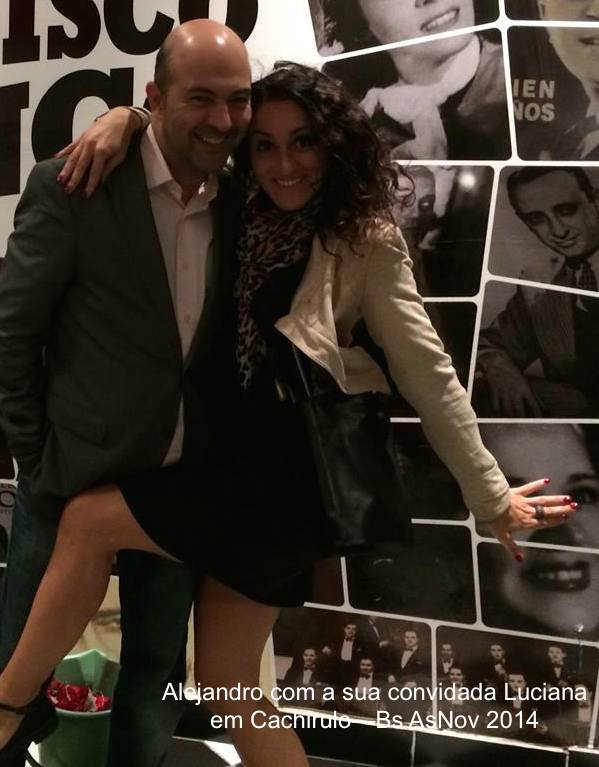
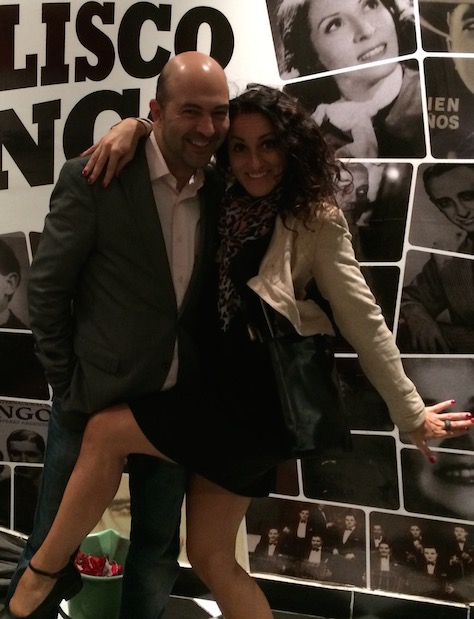
Nova actualizacao

diff --git a/public/main.htm b/public/main.htm
@@ -971,11 +971,10 @@ font-family:Cambria;
       </strong><span class="style111"><span class="AULA_DE_TANGO">em Lisboa </span><br>
   </span><span class="AULA_DE_TANGO">Domingos / Sunday 20h00 &mdash; 21h30</span><br>
   <strong><span class="ALEJANDROLAGUNA">AULAS na Milonga d' A Barraca&mdash;Tango de Buenos Aires<br>
-  </span><span class="font_12">Milonga d' A Barraca -Teatro A Barraca - Largo de Santos, 2. Lisboa <br>
+  </span><span class="font_12">Em abril Alejandro convida Luciana<br>
+  Milonga d' A Barraca -Teatro A Barraca - Largo de Santos, 2. Lisboa <br>
   <a href="http://maps.google.pt/maps?q=teatro+cinearte&hl=pt-PT&ll=38.708135,-9.15498&spn=0.008355,0.017359&fb=1&gl=pt&hq=teatro+cinearte&cid=0,0,1870763517737540757&sqi=2&t=m&z=16" target="_new">Como chegar? MAPA &ndash; MAP</a></span><span class="ALEJANDROLAGUNA">  </span></strong>  <br>
-  <span class="MsoNormal" style="text-align:center; text-justify:inter-ideograph;"><span class="MsoNormal" style="text-align:center; text-justify:inter-ideograph;"><strong><span class="AULA_DE_TANGO"><img src="Alejandro.jpg" width="567" height="375"></span></strong></span></span><br>
-  <strong><span class="font_12"><br>
-  </span><span class="ALEJANDROLAGUNA">Em Abril Alejandro convida Luciana</span></strong>      </p>
+  <span class="MsoNormal" style="text-align:center; text-justify:inter-ideograph;"><span class="MsoNormal" style="text-align:center; text-justify:inter-ideograph;"><strong><span class="AULA_DE_TANGO"><img src="Alejandro.jpg" width="567" height="375"></span></strong></span></span></p>
       <p class="MsoNormal" style="text-justify:inter-ideograph;">Alejandro &eacute; natural de Buenos Aires. Nas aulas de tango da Milonga d' A Barraca podes aprender <span class="MsoNormal" style="text-align:justify; text-justify:inter-ideograph;">a dan&ccedil;ar tango de pista&mdash;estilo milonguero </span>a trav&eacute;s de uma did&aacute;tica do movimento <span class="MsoNormal" style="text-align:justify; text-justify:inter-ideograph;">fundamentada,   eficaz </span><span class="MsoNormal" style="text-align:justify; text-justify:inter-ideograph;"><span class="MsoNormal" style="text-align:justify;text-justify:inter-ideograph;">e baseada nas  raizes do seu entorno cultural, a Milonga</span>.</span></p>
 <p class="MsoNormal" style="text-align:center; text-justify:inter-ideograph;">&nbsp;</p>
       <p class="MsoNormal" style="text-align:justify; text-justify:inter-ideograph;"> Ensinamos para que possas dan&ccedil;ar  de uma forma  semelhante &agrave; que se pratica nas milongas tradicionais de Buenos Aires.</p>
@@ -986,8 +985,7 @@ font-family:Cambria;
       <p class="MsoNormal" style="text-align:justify; text-justify:inter-ideograph;">&nbsp;</p>
       <p class="MsoNormal" style="text-align:justify; text-justify:inter-ideograph;"><span style="text-align: justify"> Aprender na Barraca &eacute; aprender no contexto onde o Tango se alimenta, a milonga. </span><br>
       </p>
-      <p class="MsoNormal" style="text-align:justify; text-justify:inter-ideograph;"><strong><span class="font_12"><span class="MsoNormal" style="text-align:justify; text-justify:inter-ideograph;">As aulas na Milonga d' A Barraca tem contado  com a colabora&ccedil;&atilde;o de reconhecidas milongueras/os argentinas/os como Mirta Tiseyra, Carlos Mercado,  Andrea Uchitel, Ver&oacute;nica Olivera, Analia Malgarini, Luciana Cardoso e outras reconhecidas bailarinas de Tango que viviram em Buenos Aires como <span class="MsoNormal" style="text-align:center; text-justify:inter-ideograph;">Solange Galv&atilde;o</span> e Joana Ramirez.</span></span></strong><br>
-        <strong><span class="font_12"><br>
+      <p class="MsoNormal" style="text-align:justify; text-justify:inter-ideograph;"><strong><span class="font_12"><span class="MsoNormal" style="text-align:justify; text-justify:inter-ideograph;">As aulas na Milonga d' A Barraca tem contado  com a colabora&ccedil;&atilde;o de reconhecidas milongueras/os argentinas/os como Mirta Tiseyra, Carlos Mercado,  Andrea Uchitel, Ver&oacute;nica Olivera, Analia Malgarini, Luciana Cardoso e outras reconhecidas bailarinas de Tango que viviram em Buenos Aires como <span class="MsoNormal" style="text-align:center; text-justify:inter-ideograph;">Solange Galv&atilde;o</span> e Joana Ramirez.</span></span></strong><strong><span class="font_12"><br>
         <img src="AleyJoaconvento.jpg" width="467" height="700"><br>
         Com Joana Ramirez</span><span class="style1"><br>
       </span></strong></p>
@@ -1004,17 +1002,17 @@ Este &laquo;corpo de tango&raquo;, &eacute;&nbsp;imposs&iacute;vel de definir me
         Quando isto emerge, quando este mist&eacute;rio cobra intensidade... e quando isto acontece, ambos &mdash;e s&oacute; eles&mdash;o sabem. <br>
       </span><span class="font_12"><br>
         <span class="MsoNormal" style="text-align:center; text-justify:inter-ideograph; font-family: Arial;"><span class="MsoNormal" style="text-align:center; text-justify:inter-ideograph; font-family: Arial;"><img src="images/Ale y Sol_Contraluz_ IMG_8082.JPG" width="494" height="329"></span></span><br>
-        <br>
-        Quando um est&aacute; aprendendo &eacute; importante saber que n&atilde;o chegamos ao Tango atrav&eacute;s dos passos. Porque 
-      aprender Tango n&atilde;o &eacute; sin&oacute;nimo de bailar tango. Dan&ccedil;ar tango tamb&eacute;m n&atilde;o &eacute; aprender &quot;T&eacute;cnica&quot; e depois a Expressividade. Isto </span> nos afasta mais do que nos aproxima do Tango.<br>
-      <span class="font_12"> Porque o Tango est&aacute; na Milonga e est&aacute; dentro do abra&ccedil;o do homem e a mulher.<br>
-      Por isso o Tango, n&atilde;o ve-se. Sente-se. O Tango transmite-se a trav&eacute;s do contacto.<br>
-      Do milonguero que tem tango ao aluno que quer aprender.
-      </span><span class="font_12"><br>
-        Podem-se ensinar passos, pero n&atilde;o pode-se ensinar o tango.
-      </span></p>
-      <p class="MsoNormal" style="text-align:center; text-justify:inter-ideograph; font-family: Arial;"><span class="font_12"><strong><span class="MsoNormal" style="text-align:center; text-justify:inter-ideograph;"><img src="1_n.jpg" alt="" width="474" height="606"></span></strong><br>
+      Com Solange Galv&atilde;o</span> na Milonga d' A Barraca</p>
+      <p class="MsoNormal" style="text-align:center; text-justify:inter-ideograph; font-family: Arial;"><span class="font_12">Quando um est&aacute; aprendendo &eacute; importante saber que n&atilde;o chegamos ao Tango atrav&eacute;s dos passos. Porque 
+        aprender Tango n&atilde;o &eacute; sin&oacute;nimo de bailar tango. Dan&ccedil;ar tango tamb&eacute;m n&atilde;o &eacute; aprender &quot;T&eacute;cnica&quot; e depois a Expressividade. Isto </span> nos afasta mais do que nos aproxima do Tango.<br>
+        <span class="font_12"> Porque o Tango est&aacute; na Milonga e est&aacute; dentro do abra&ccedil;o do homem e a mulher.<br>
+        Por isso o Tango, n&atilde;o ve-se. Sente-se. O Tango transmite-se a trav&eacute;s do contacto.<br>
+        Do milonguero que tem tango ao aluno que quer aprender.
         </span><span class="font_12"><br>
+        Podem-se ensinar passos, pero n&atilde;o pode-se ensinar o tango.
+          </span></p>
+      <p class="MsoNormal" style="text-align:center; text-justify:inter-ideograph; font-family: Arial;"><span class="font_12"><strong><span class="MsoNormal" style="text-align:center; text-justify:inter-ideograph;"><img src="1_n.jpg" alt="" width="416" height="531"></span></strong><br>
+        </span><span class="font_12">con Luciana na porta de Cachirulo em Buenos Aires (2014)<br>
         Por tudo isto,  familiarizar-se com Tango &eacute; um processo longo. No entanto &eacute; fundamental saber que se pode desfrutar intensamente de cada uma das diferentes etapas  pelas que ir&aacute;s passando. Sempre o mais importante &eacute; dan&ccedil;ar para o outro<br>
         </span><span class="font_12">e saber transformar a horizantalidade na verticalidade.<br>
         Milhares de an&oacute;nimos milongueros e milongueras t&ecirc;m sabido mostrarmos que o Tango est&aacute; estreitamente vinculado a uma transmiss&atilde;o emocional a trav&eacute;s do nosso corpo e &eacute; produto da intera&ccedil;&atilde;o social gerada dentro do ambi&ecirc;nte da milonga.  <br>
@@ -1036,12 +1034,12 @@ Este &laquo;corpo de tango&raquo;, &eacute;&nbsp;imposs&iacute;vel de definir me
       <p><span class="font_12"><img src="Aley mirta.jpg" width="525" height="391"><br>
         <span class="normal"> Alejandro com Mirta Tiseyra</span> na Barraca<br>
         <br>
-        <img src="aleymare_2003_espanha.jpg" width="522" height="345"><br>
+        <img src="aleymare_2003_espanha.jpg" width="456" height="300"><br>
         <span class="style1">&nbsp;</span></span><span class="normal">Alejandro com Mariana, Ant&oacute;nio Cha&iacute;nho e Marta Dias (Madrid 2003)</span><span class="font_12"><br>
         <br>
-        <img src="untitled1.gif" width="521" height="571"><br>
+        <img src="untitled1.gif" width="456" height="499"><br>
         <span class="normal">Alejandro e Solange  <br>
-        Espet&aacute;culo da companhia de dan&ccedil;a contempor&acirc;nea (2004) </span><br>
+        Companhia de Dan&ccedil;a Contempor&acirc;nea. </span>De  Solange Galv&atilde;o (2004) <br>
       </span></p>
       <p><br>
         <br>
@@ -1055,8 +1053,8 @@ Este &laquo;corpo de tango&raquo;, &eacute;&nbsp;imposs&iacute;vel de definir me
   &mdash; 00h30<br>
   </span></strong><font color="#999999"><font color="#999999"><strong><font color="#999999"><strong><font color="#999999"><font color="#999999"><font color="#999999"><strong><font color="#999999"><font color="#999999"><font color="#999999"><strong><font color="#999999"><strong><span style="font: normal 24px Arial">12 Abril &mdash; Milonga n&ordm; 789</span></strong></font></strong></font></font><strong><span class="ALEJANDROLAGUNA"><br>
   Uma das milongas mais antigas e tradicionais de Europa<br>
-</span></strong></font></strong><font color="#999999"><span class="ALEJANDROLAGUNA">One of the oldest and traditional Milongas in Europe</span><strong><strong><span style="font-family: Arial; font-size: 18px"> <br>
-</span></strong><strong><span style="font-family: Arial; font-size: 18px"><br>
+</span></strong></font></strong><font color="#999999"><span class="ALEJANDROLAGUNA"><span class="font_12">One of the oldest and traditional Milongas in Europe</span></span><strong><strong><span style="font-family: Arial; font-size: 18px"> <br>
+<br>
 <br>
 Pela 1&ordf; vez em Portugal <br>
 9 e 10 de Maio apresentamos...</span></strong></strong></font></font></font></font></strong></font></strong></font></font><strong><span class="AULA_DE_TANGO"><br>
@@ -1079,25 +1077,22 @@ Bar requintado com um grande bal&ccedil;&atilde;o<br>
 2 Sorteios <br>
 Uma entrada &agrave; Milonga e uma Garrafa de Champanhe <br>
 E como sempre    a ultima tanda   da milonga dan&ccedil;ando ao som do  FADO, <br>
-a nossa Marca registada.</font></p>
-        <p class="style1"><strong><font color="#FFFFFF" face="Arial"><font color="#999999"><font color="#999999"><font color="#999999"><font color="#999999"><span class="style11"><strong><strong><span class="AULA_DE_TANGO">Edi&ccedil;&atilde;o especial da Milonga d' A Barraca <br>
-          em Buenos Aires &mdash;20 Novembro 2014</span></strong></strong></span></font></font></font></font><strong><span class="AULA_DE_TANGO"><br>
-  <span class="font_12"><img src="Hist&oacute;rica1Prestamo.jpg" alt="" width="529" height="394"></span></span></strong>&nbsp;</font></strong></p>
-        <p><font color="#00FF00"><font color="#CC9900" face="Arial"><strong>Em Lisboa com Carlos Gavito</strong></font><font color="#CC9900" face="Arial" class="style11"><strong><br>
-&nbsp;&nbsp;&nbsp;&nbsp;<img src="1_Gavito_Clube estefania 2000.jpeg" alt="" width="522" height="392"></strong></font><strong><font color="#00FF00"><br>
-Marcela Dur&aacute;n, Carlos Gavito e&nbsp;Alejandro <br>
-Milon<span style="font: normal 13px/normal Arial">g</span>a d<span style="font: normal 13px/normal Arial">e Solange e Alejandro no </span>Clube Estefania</font><span style="font: normal 13px/normal Arial"><font color="#CC9900" face="Arial"> em </font></span><font color="#CC9900" face="Arial">Lisboa&mdash;Julho 200</font></strong></font></p>
-        <p>&nbsp;</p>
+a nossa Marca registada.</font><strong><font color="#FFFFFF" face="Arial"><strong><span class="AULA_DE_TANGO"><br>
+  <span class="font_12"><img src="Hist&oacute;rica1Prestamo.jpg" alt="" width="529" height="394"></span></span></strong>&nbsp;</font></strong><br>
+  <strong><font color="#FFFFFF" face="Arial"><font color="#999999"><font color="#999999"><font color="#999999"><font color="#999999"><strong><strong><span class="AULA_DE_TANGO"><span class="font_12">Edi&ccedil;&atilde;o especial da Milonga d' A Barraca em Buenos Aires &mdash;20 Nov</span></span><span style="font: normal 24px Arial"><span class="SBOA">.</span></span><span class="AULA_DE_TANGO"><span class="font_12"> 2014</span></span></strong></strong></font></font></font></font></font></strong><font color="#00FF00"><font color="#CC9900" face="Arial" class="style11"><strong>&nbsp;<img src="1_Gavito_Clube estefania 2000.jpeg" alt="" width="522" height="392"></strong></font><strong><font color="#00FF00"><br>
+          Marcela Dur&aacute;n, Carlos Gavito e &nbsp;Alejandro <br>
+          Milonga d<span style="font: normal 13px/normal Arial">e Solange e Alejandro&mdash;</span>Clube Estefania</font><span style="font: normal 13px/normal Arial"><font color="#CC9900" face="Arial"> em </font></span><font color="#CC9900" face="Arial">Lisboa&mdash;Julho 2000</font></strong></font></p>
+<p>&nbsp;</p>
       </blockquote>
-      <p><span class="font_12">De MILONGUEROS e MILONGUERAS</span></p>
-      <p class="MsoNormal" style="text-align:justify;text-justify:inter-ideograph;"><span class="style111"><span class="font_12">Os milongueros [aqueles que frequentam assiduamente a milonga] s&atilde;o &quot;em ess&ecirc;ncia&quot; descendentes dos &ldquo;compadritos aporte&ntilde;ados&rdquo; que possuem um instinto para comunicar a sua emo&ccedil;&atilde;o, atrav&eacute;s de uma cad&ecirc;ncia de movimento, m&uacute;sica e poesia, aspectos insepar&aacute;veis do seu abra&ccedil;o. <br>
+      <p align="left"><span class="font_12">De MILONGUEROS e MILONGUERAS<br>
+      </span><span class="style111"><span class="font_12">Os milongueros [aqueles que frequentam assiduamente a milonga] s&atilde;o &quot;em ess&ecirc;ncia&quot; descendentes dos &ldquo;compadritos aporte&ntilde;ados&rdquo; que possuem um instinto para comunicar a sua emo&ccedil;&atilde;o, atrav&eacute;s de uma cad&ecirc;ncia de movimento, m&uacute;sica e poesia, aspectos insepar&aacute;veis do seu abra&ccedil;o. <br>
         T&ecirc;m uma grande percep&ccedil;&atilde;o da pista pela que v&atilde;o transitando enquanto negoceiam o espa&ccedil;o com os outros milongueros. <br>
         O milonguero &eacute; an&oacute;nimo. Aparece, dan&ccedil;a, apaixona-se pelo tango, bebe e desaparece.<br>
         As milongueras [todas aqueles que frequentam assiduamente a milonga] s&atilde;o elas todas &ldquo;madreselvas&rdquo;, geradoras de emo&ccedil;&otilde;es, que contornam o corpo do homem entre suspiros entrecortados. <br>
         Elas s&atilde;o a raz&atilde;o de ser dos milongueros. <br>
         Abra&ccedil;am, comunicando em segredo a cumplicidade com que acompanham cada passo com o cora&ccedil;&atilde;o. A milonguera &eacute; tamb&eacute;m an&oacute;nima. <br>
         Aparece, dan&ccedil;a, apaixona-se pelo tango, bebe e desaparece.</span></span></p>
-<p><strong><font color="#00FF00"><img src="Ale y Joana.jpg" alt="" width="522" height="732"></font><br>
+<p><strong><font color="#00FF00"><img src="Ale y Joana.jpg" alt="" width="397" height="561"></font><br>
 </strong><font color="#00FF00"><strong><font color="#00FF00" class="normal">Alejandro e Joana Ramirez no Festival de Tango de Lisboa 2014</font></strong></font><strong><br>
           <font color="#CC9900" face="Arial">&nbsp;</font></strong><br>
         <a href="http://www.youtube.com/watch?v=ZSq3A51F75s" target="_new" class="style1"> Para Ouvir [ESTE ES TU TANGO] </a></p>
